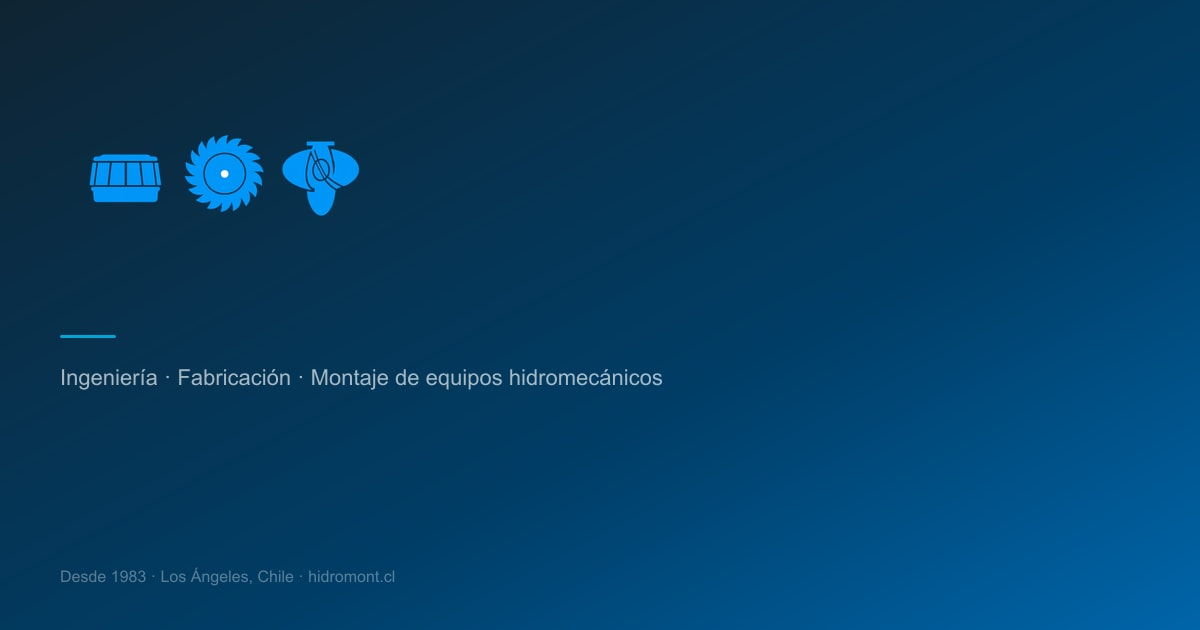
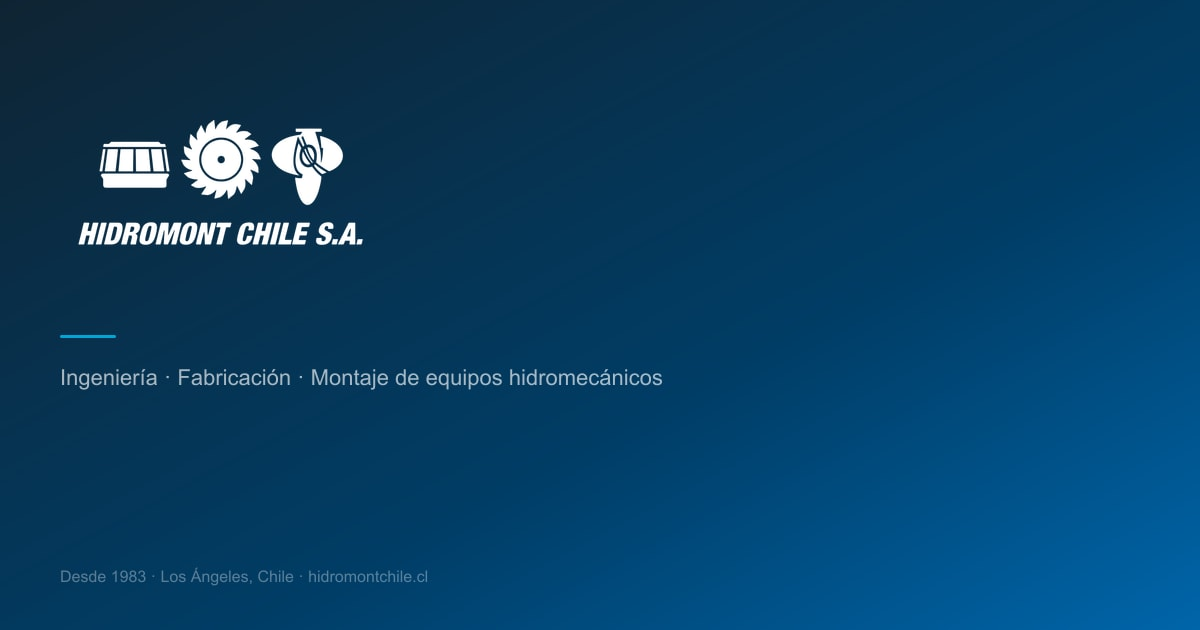
fix: el sitio deja de referirse a hidromont.cl
El dominio del sitio es hidromontchile.cl; hidromont.cl queda fuera de su
alcance. Se corrigen las referencias que lo trataban como el sitio:

- La imagen para redes sociales (public/og/og-default.jpg), la que aparece al
  compartir un enlace, llevaba «hidromont.cl» impreso. Se regenera.
- El asunto por defecto del formulario de contacto y su valor semilla del CMS.
- La URL semilla de sitioWeb en defaultContent.ts. El valor publicado ya era
  hidromontchile.cl; la semilla había quedado atrás.
- Dos textos del panel que decían «visible en hidromont.cl».
- Un correo de ejemplo en la guía del CMS.

Al regenerar la imagen apareció un problema aparte: logo.png cambió en julio
y ahora es el logo completo en azul oscuro, pensado para fondo claro. Compuesto
tal cual sobre el degradado azul noche quedaba azul sobre azul, casi ilegible.
El generador pasa a dibujarlo en blanco conservando la transparencia, que es
lo mismo que hace la cabecera del sitio sobre el hero oscuro con
`filter: brightness(0) invert(1)`. También vacía una columna de 1 px casi
transparente que el PNG trae en su borde izquierdo y que en blanco se veía como
una raya junto al logo.

Solo se regenera la imagen de redes: el script completo reoptimizaría además
logo.png, que pesa más de su umbral de 200 KB, y eso no se ha pedido.

No se toca el correo hidromont@hidromont.cl: es el buzón real de Google
Workspace al que envía el formulario, y hidromontchile.cl no tiene correo
[…]

Changed region(s): [[0.0617, 0.181, 0.3083, 0.3921], [0.3083, 0.9048, 0.37, 0.9349]]

diff --git a/cms/content/defaultContent.ts b/cms/content/defaultContent.ts
@@ -415,7 +415,7 @@ export const defaultContentEntries: EntrySeed[] = [
       casillaPostal: { type: 'text', value: 'Casilla 48 — Los Ángeles, Región del Biobío' },
       telefono: { type: 'text', value: '+56 43 232 8414' },
       email: { type: 'text', value: 'hidromont@hidromont.cl' },
-      sitioWeb: { type: 'link', value: 'https://hidromont.cl' },
+      sitioWeb: { type: 'link', value: 'https://hidromontchile.cl' },
       fundacion: { type: 'number', value: 1983 },
       chileDesde: { type: 'number', value: 1997 },
       descripcionCorta: {
@@ -827,7 +827,7 @@ export const defaultContentEntries: EntrySeed[] = [
     title: 'Formulario de contacto',
     status: 'published',
     fields: {
-      subject: { type: 'text', value: 'Nuevo contacto desde hidromont.cl' },
+      subject: { type: 'text', value: 'Nuevo contacto desde hidromontchile.cl' },
       fromName: { type: 'text', value: 'Sitio web Hidromont Chile' },
       nameLabel: { type: 'text', value: 'Nombre' },
       namePlaceholder: { type: 'text', value: 'Su nombre completo' },

diff --git a/src/scripts/cms/overlay/events.js b/src/scripts/cms/overlay/events.js
@@ -110,7 +110,7 @@ export function registerEvents() {
           if (aviso) panelBody.insertAdjacentHTML('afterbegin', aviso);
           if (status)
             status.textContent =
-              `Exportado a los archivos del sitio. Para que aparezca en hidromont.cl falta compilar y desplegar (npm run build + deploy). Job ${result.job?.id || ''}`.trim();
+              `Exportado a los archivos del sitio. Para que aparezca en hidromontchile.cl falta compilar y desplegar (npm run build + deploy). Job ${result.job?.id || ''}`.trim();
           setGlobalState('exported');
         } catch (error) {
           if (status)

diff --git a/src/scripts/cms/overlay/shell.js b/src/scripts/cms/overlay/shell.js
@@ -95,7 +95,7 @@ export function setGlobalState(stateKey) {
     return;
   }
   // Etiquetas honestas: el CMS exporta y valida, pero NO despliega a producción.
-  // «Exportado» no significa «visible en hidromont.cl» — eso requiere build+deploy.
+  // «Exportado» no significa «visible en hidromontchile.cl» — eso requiere build+deploy.
   const map = {
     unsaved: { label: '● Sin exportar', cls: 'failed' },
     exported: { label: '✓ Exportado · falta desplegar', cls: 'succeeded' },

diff --git a/docs/CMS-GUIDE.md b/docs/CMS-GUIDE.md
@@ -188,7 +188,7 @@ Si cambias `CMS_ADMIN_PASSWORD` en `.env` tras el primer arranque, el hash almac
 ```bash
 npm run cms:reset-password
 # o con credenciales explícitas:
-npm run cms:reset-password -- admin@hidromont.cl NuevaPasswordSegura123
+npm run cms:reset-password -- tu-correo@ejemplo.cl NuevaPasswordSegura123
 ```
 
 Esto re-hashea, actualiza la fila del admin e invalida todas las sesiones activas.
